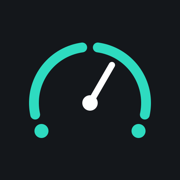
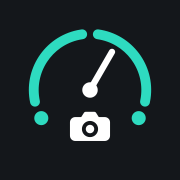
Zmień ikonę strony na wariant E
favicon.svg i apple-touch-icon.png z nowej ikony apki
(marcinobolewicz/odcinkowy#140), og.png odświeżony, bo widać w nim
logo. Glif w Live Activity na telefonie zostaje bez aparatu, jak w apce.

Changed region(s): [[0.1389, 0.1389, 0.8611, 0.8056]]

diff --git a/README.md b/README.md
@@ -16,7 +16,7 @@ Zwykły HTML i CSS, bez builda, skryptów, ciasteczek i analityki, na hostingu O
 | `prywatnosc/`, `warunki/`, `wsparcie/` | Dokumenty |
 | `styles.css` | Tokeny (jasne w `:root`, ciemne w `prefers-color-scheme: dark`) i układ: od 1024 px dwie kolumny w hero |
 | `fonts/` | Barlow i Barlow Condensed (OFL, `fonts/OFL.txt`), hostowane razem ze stroną, żeby nie łączyć się z Google Fonts |
-| `favicon.svg`, `apple-touch-icon.png` | Ikona C apki |
+| `favicon.svg`, `apple-touch-icon.png` | Ikona apki (wariant E, `docs/icon/odcinkowy-ikona.svg` w repozytorium `odcinkowy`) |
 | `og.png` | Podgląd linku (1200 × 630): hero w ciemnym motywie |
 
 Ikony funkcji pochodzą z Lucide (licencja ISC).
